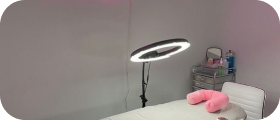
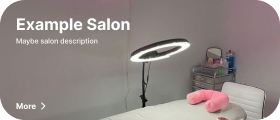
refactor UI

Changed region(s): [[0.0571, 0.15, 0.4857, 0.275], [0.0571, 0.3, 0.3714, 0.375], [0.0571, 0.85, 0.1714, 0.925]]

diff --git a/lib/prezentation/home/orders_tile_widget.dart b/lib/prezentation/home/orders_tile_widget.dart
@@ -1,48 +1,90 @@
+import 'dart:ui';
+
 import 'package:flutter/material.dart';
+import 'package:flutter_slidable/flutter_slidable.dart';
+import 'package:salons_app_mobile/prezentation/home/order_alert_widget.dart';
+import 'package:salons_app_mobile/prezentation/home/order_options_widget.dart';
 import 'package:salons_app_mobile/utils/app_strings.dart';
 
 class OrdersTileWidget extends StatelessWidget {
   const OrdersTileWidget({
     Key? key,
+    required this.orderText,
+    required this.orderDate,
+    required this.masterImage,
+    required this.masterName,
+    required this.orderPrice,
   }) : super(key: key);
+
+  final String orderText;
+  final String orderDate;
+  final String masterImage;
+  final String masterName;
+  final String orderPrice;
 
   @override
   Widget build(BuildContext context) {
-    return Container(
-      padding: EdgeInsets.symmetric(horizontal: 14, vertical: 10),
-      width: 340,
-      height: 95,
-      decoration: BoxDecoration(
-        color: Colors.white,
-        borderRadius: BorderRadius.circular(10),
-        boxShadow: [BoxShadow(color: Color(0x22222222), blurRadius: 6, offset: Offset(0, 2))]
+    return Slidable(
+      child: Container(
+        padding: EdgeInsets.symmetric(horizontal: 14, vertical: 10),
+        width: 340,
+        height: 95,
+        decoration: BoxDecoration(
+            color: Colors.white,
+            borderRadius: BorderRadius.circular(10),
+            boxShadow: [
+              BoxShadow(
+                  color: Color(0x22222222), blurRadius: 6, offset: Offset(0, 2))
+            ]),
+        child: Column(
+          mainAxisAlignment: MainAxisAlignment.spaceBetween,
+          children: [
+            Row(
+              mainAxisAlignment: MainAxisAlignment.spaceBetween,
+              children: [
+                Text(orderText, style: text16W600),
+                Text(orderDate, style: text12W600),
+              ],
+            ),
+            Row(
+              mainAxisAlignment: MainAxisAlignment.spaceBetween,
+              children: [
+                CircleAvatar(
+                  radius: 16,
+                  backgroundImage: AssetImage(masterImage),
+                  // child: Image.network(masterImage),
+                ),
+                SizedBox(width: 8),
+                Text('Мастер $masterName', style: text12W500),
+                Spacer(),
+                Text('$orderPrice грн', style: text12W600),
+              ],
+            ),
+          ],
+        ),
       ),
-      child: Column(
-        mainAxisAlignment: MainAxisAlignment.spaceBetween,
-        children: [
-          Row(
-            mainAxisAlignment: MainAxisAlignment.spaceBetween,
-            children: [
-              Text('Маникюр в Example Salon', style: text16W600),
-              Text('Вт, 23 мая', style: text12W600),
-            ],
-          ),
-          Row(
-            mainAxisAlignment: MainAxisAlignment.spaceBetween,
-            children: [
-              CircleAvatar(
-                radius: 16,
-                backgroundColor: Colors.red,
-                // child: Image.network('assets/images/'),
-              ),
-              SizedBox(width: 8),
-              Text('Мастер Olha', style: text12W500),
-              Spacer(),
-              Text('300 грн', style: text12W600),
-            ],
-          ),
-        ],
-      ),
+      actionPane: SlidableDrawerActionPane(),
+      secondaryActions: [
+        OrderOptionsWidget(
+          text: 'Закрепить',
+          icon: Icons.push_pin_outlined,
+          color: Color(0xFFF2C420),
+          isRounded: false,
+          onTap: () {},
+        ),
+        OrderOptionsWidget(
+          text: 'Отменить запись',
+          icon: Icons.cancel,
+          color: Color(0xFFE1440E),
+          isRounded: true,
+          onTap: () {
+            showDialog(
+              context: context,
+              builder: (context) => OrderAlertWidget(),
+            );
+          },
+        ),
+      ],
     );
   }
 }

diff --git a/lib/prezentation/home/home_page.dart b/lib/prezentation/home/home_page.dart
@@ -1,8 +1,6 @@
 import 'package:flutter/material.dart';
 import 'package:flutter/widgets.dart';
-import 'package:flutter_slidable/flutter_slidable.dart';
-import 'package:salons_app_mobile/prezentation/home/order_alert_widget.dart';
-import 'package:salons_app_mobile/prezentation/home/order_options_widget.dart';
+import 'package:salons_app_mobile/prezentation/home/empty_list_image.dart';
 import 'package:salons_app_mobile/prezentation/home/orders_tile_widget.dart';
 import 'package:salons_app_mobile/prezentation/home/top_salons_carousel_widget.dart';
 import 'package:salons_app_mobile/utils/app_strings.dart';
@@ -71,33 +69,18 @@ class _HomePageState extends State<HomePage> {
               ],
             ),
           ),
-          Slidable(
-            child: OrdersTileWidget(),
-            actionPane: SlidableDrawerActionPane(),
-            secondaryActions: [
-              OrderOptionsWidget(
-                text: 'Закрепить',
-                icon: Icons.push_pin_outlined,
-                color: Color(0xFFF2C420),
-                isRounded: false,
-                onTap: () {},
-              ),
-              OrderOptionsWidget(
-                text: 'Отменить запись',
-                icon: Icons.cancel,
-                color: Color(0xFFE1440E),
-                isRounded: true,
-                onTap: () {
-                  showDialog(
-                    context: context,
-                    builder: (context) => OrderAlertWidget(),
-                  );
-                },
-              ),
-            ],
+          OrdersTileWidget(
+            orderText: 'Маникюр в Example Salon',
+            orderDate: 'Вт. 23 мая',
+            masterImage: 'assets/images/MasterImage.png',
+            masterName: 'Olha',
+            orderPrice: '300',
           ),
+          EmptyListImageWidget(),
         ],
       ),
     );
   }
 }
+
+

diff --git a/lib/prezentation/home/empty_list_image.dart b/lib/prezentation/home/empty_list_image.dart
@@ -1,0 +1,37 @@
+import 'package:flutter/material.dart';
+import 'package:salons_app_mobile/utils/app_strings.dart';
+
+class EmptyListImageWidget extends StatelessWidget {
+  const EmptyListImageWidget({
+    Key? key,
+  }) : super(key: key);
+
+  @override
+  Widget build(BuildContext context) {
+    return Container(
+      child: Column(
+        children: [
+          Image.asset('assets/images/MessageSent.png'),
+          Text('У Вас пока что нет записей.', style: text16W600.copyWith(height: 0.5)),
+          Row(
+            mainAxisAlignment: MainAxisAlignment.center,
+            children: [
+              Text(
+                'Самое время создать',
+                style: text16W600.copyWith(height: 0.5),
+              ),
+              TextButton(
+                onPressed: () {},
+                child: Text(
+                  'новую!',
+                  style: text16W600.copyWith(
+                      color: Colors.blue, height: 0.5),
+                ),
+              ),
+            ],
+          ),
+        ],
+      ),
+    );
+  }
+}

diff --git a/lib/utils/app_strings.dart b/lib/utils/app_strings.dart
@@ -3,6 +3,7 @@ import 'package:google_fonts/google_fonts.dart';
 
 final TextStyle text12W500 = GoogleFonts.inter(textStyle: TextStyle(fontSize: 12, fontWeight: FontWeight.w500, color: Color(0xFF1F2937)));
 final TextStyle text12W600 = GoogleFonts.inter(textStyle: TextStyle(fontSize: 12, fontWeight: FontWeight.w600, color: Color(0xFF1F2937)));
+final TextStyle text14W600 = GoogleFonts.inter(textStyle: TextStyle(fontSize: 14, fontWeight: FontWeight.w600, color: Color(0xFF1F2937)));
 final TextStyle text16W600 = GoogleFonts.inter(textStyle: TextStyle(fontSize: 16, fontWeight: FontWeight.w600, color: Color(0xFF1F2937)));
 final TextStyle text16W400 = GoogleFonts.inter(textStyle: TextStyle(fontSize: 16, fontWeight: FontWeight.w400, color: Color(0xFF1F2937)));
 final TextStyle text20W700 = GoogleFonts.inter(textStyle: TextStyle(fontSize: 20, fontWeight: FontWeight.w700, color: Color(0xFF1F2937)));

diff --git a/lib/prezentation/home/top_salons_carousel_widget.dart b/lib/prezentation/home/top_salons_carousel_widget.dart
@@ -19,12 +19,9 @@ class TopSalonsCarouselWidget extends StatelessWidget {
               width: 280,
               height: 120,
               decoration: BoxDecoration(
-                color: Colors.amber,
                 borderRadius: BorderRadius.circular(25),
                 image: DecorationImage(
-                  //TODO: Заменить на svg
                   image: AssetImage('assets/images/TopSalonCard.png'),
-                  fit: BoxFit.cover,
                 ),
               ),
             ),
